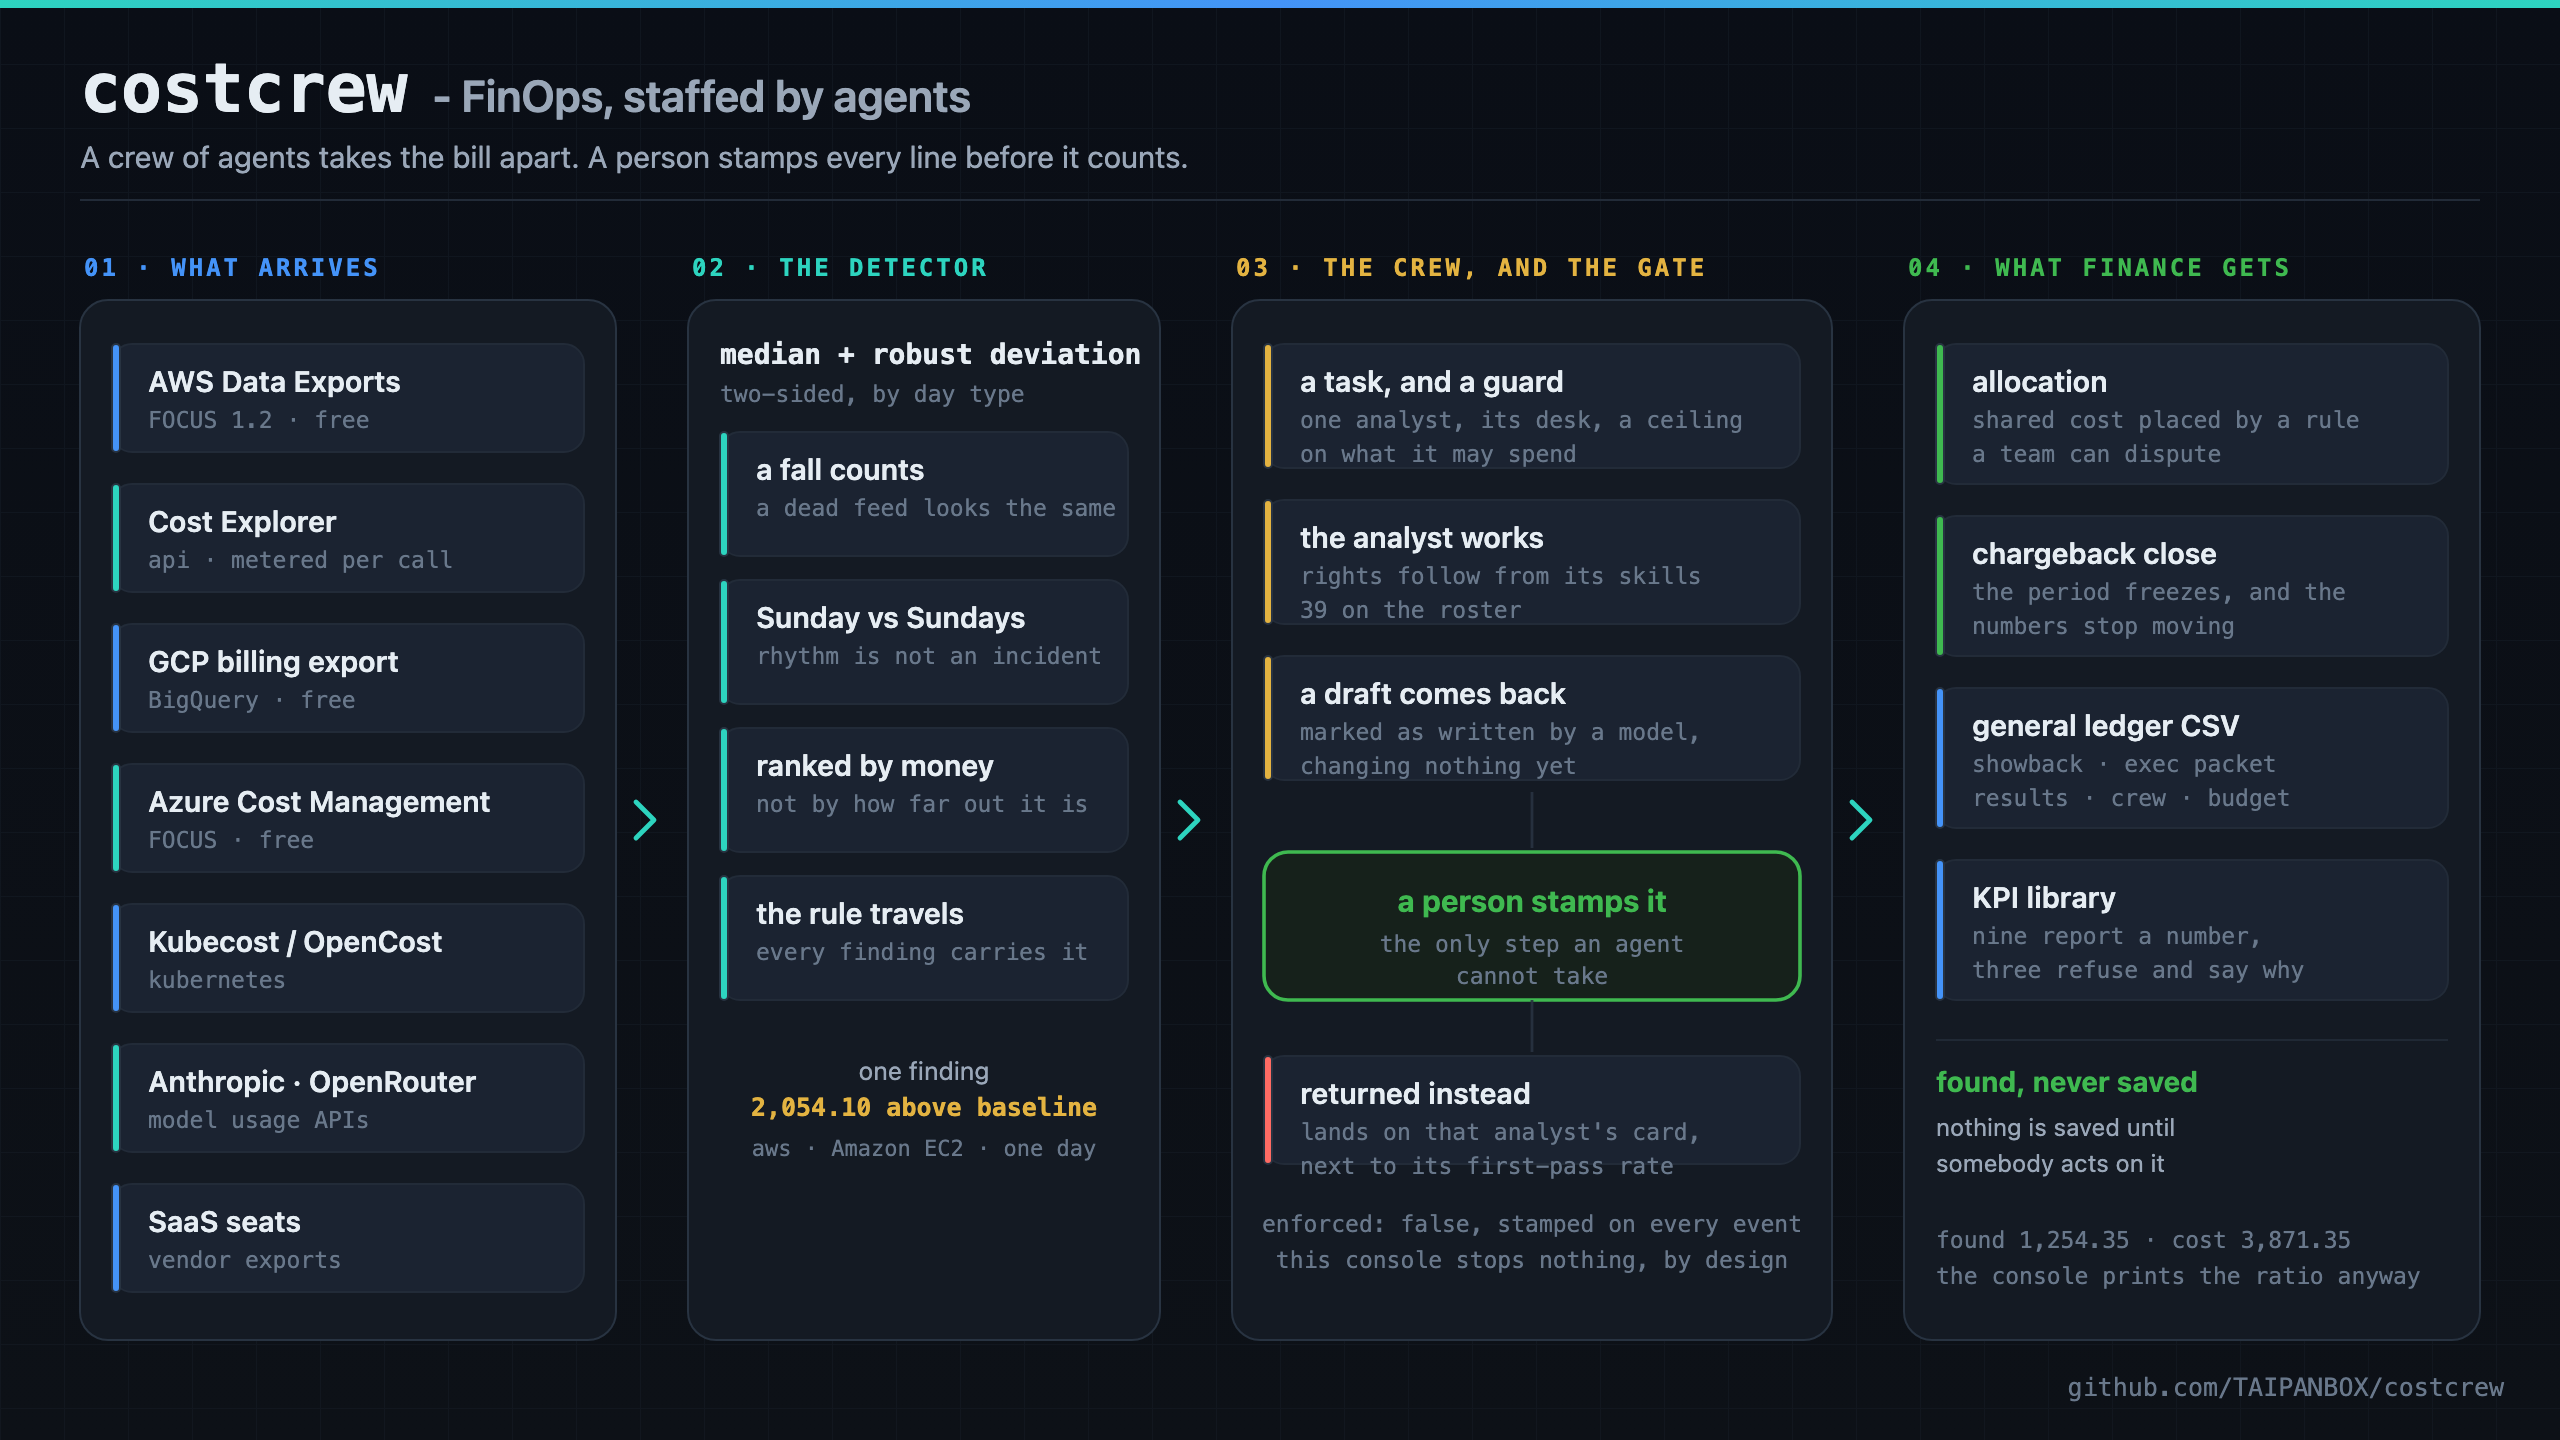
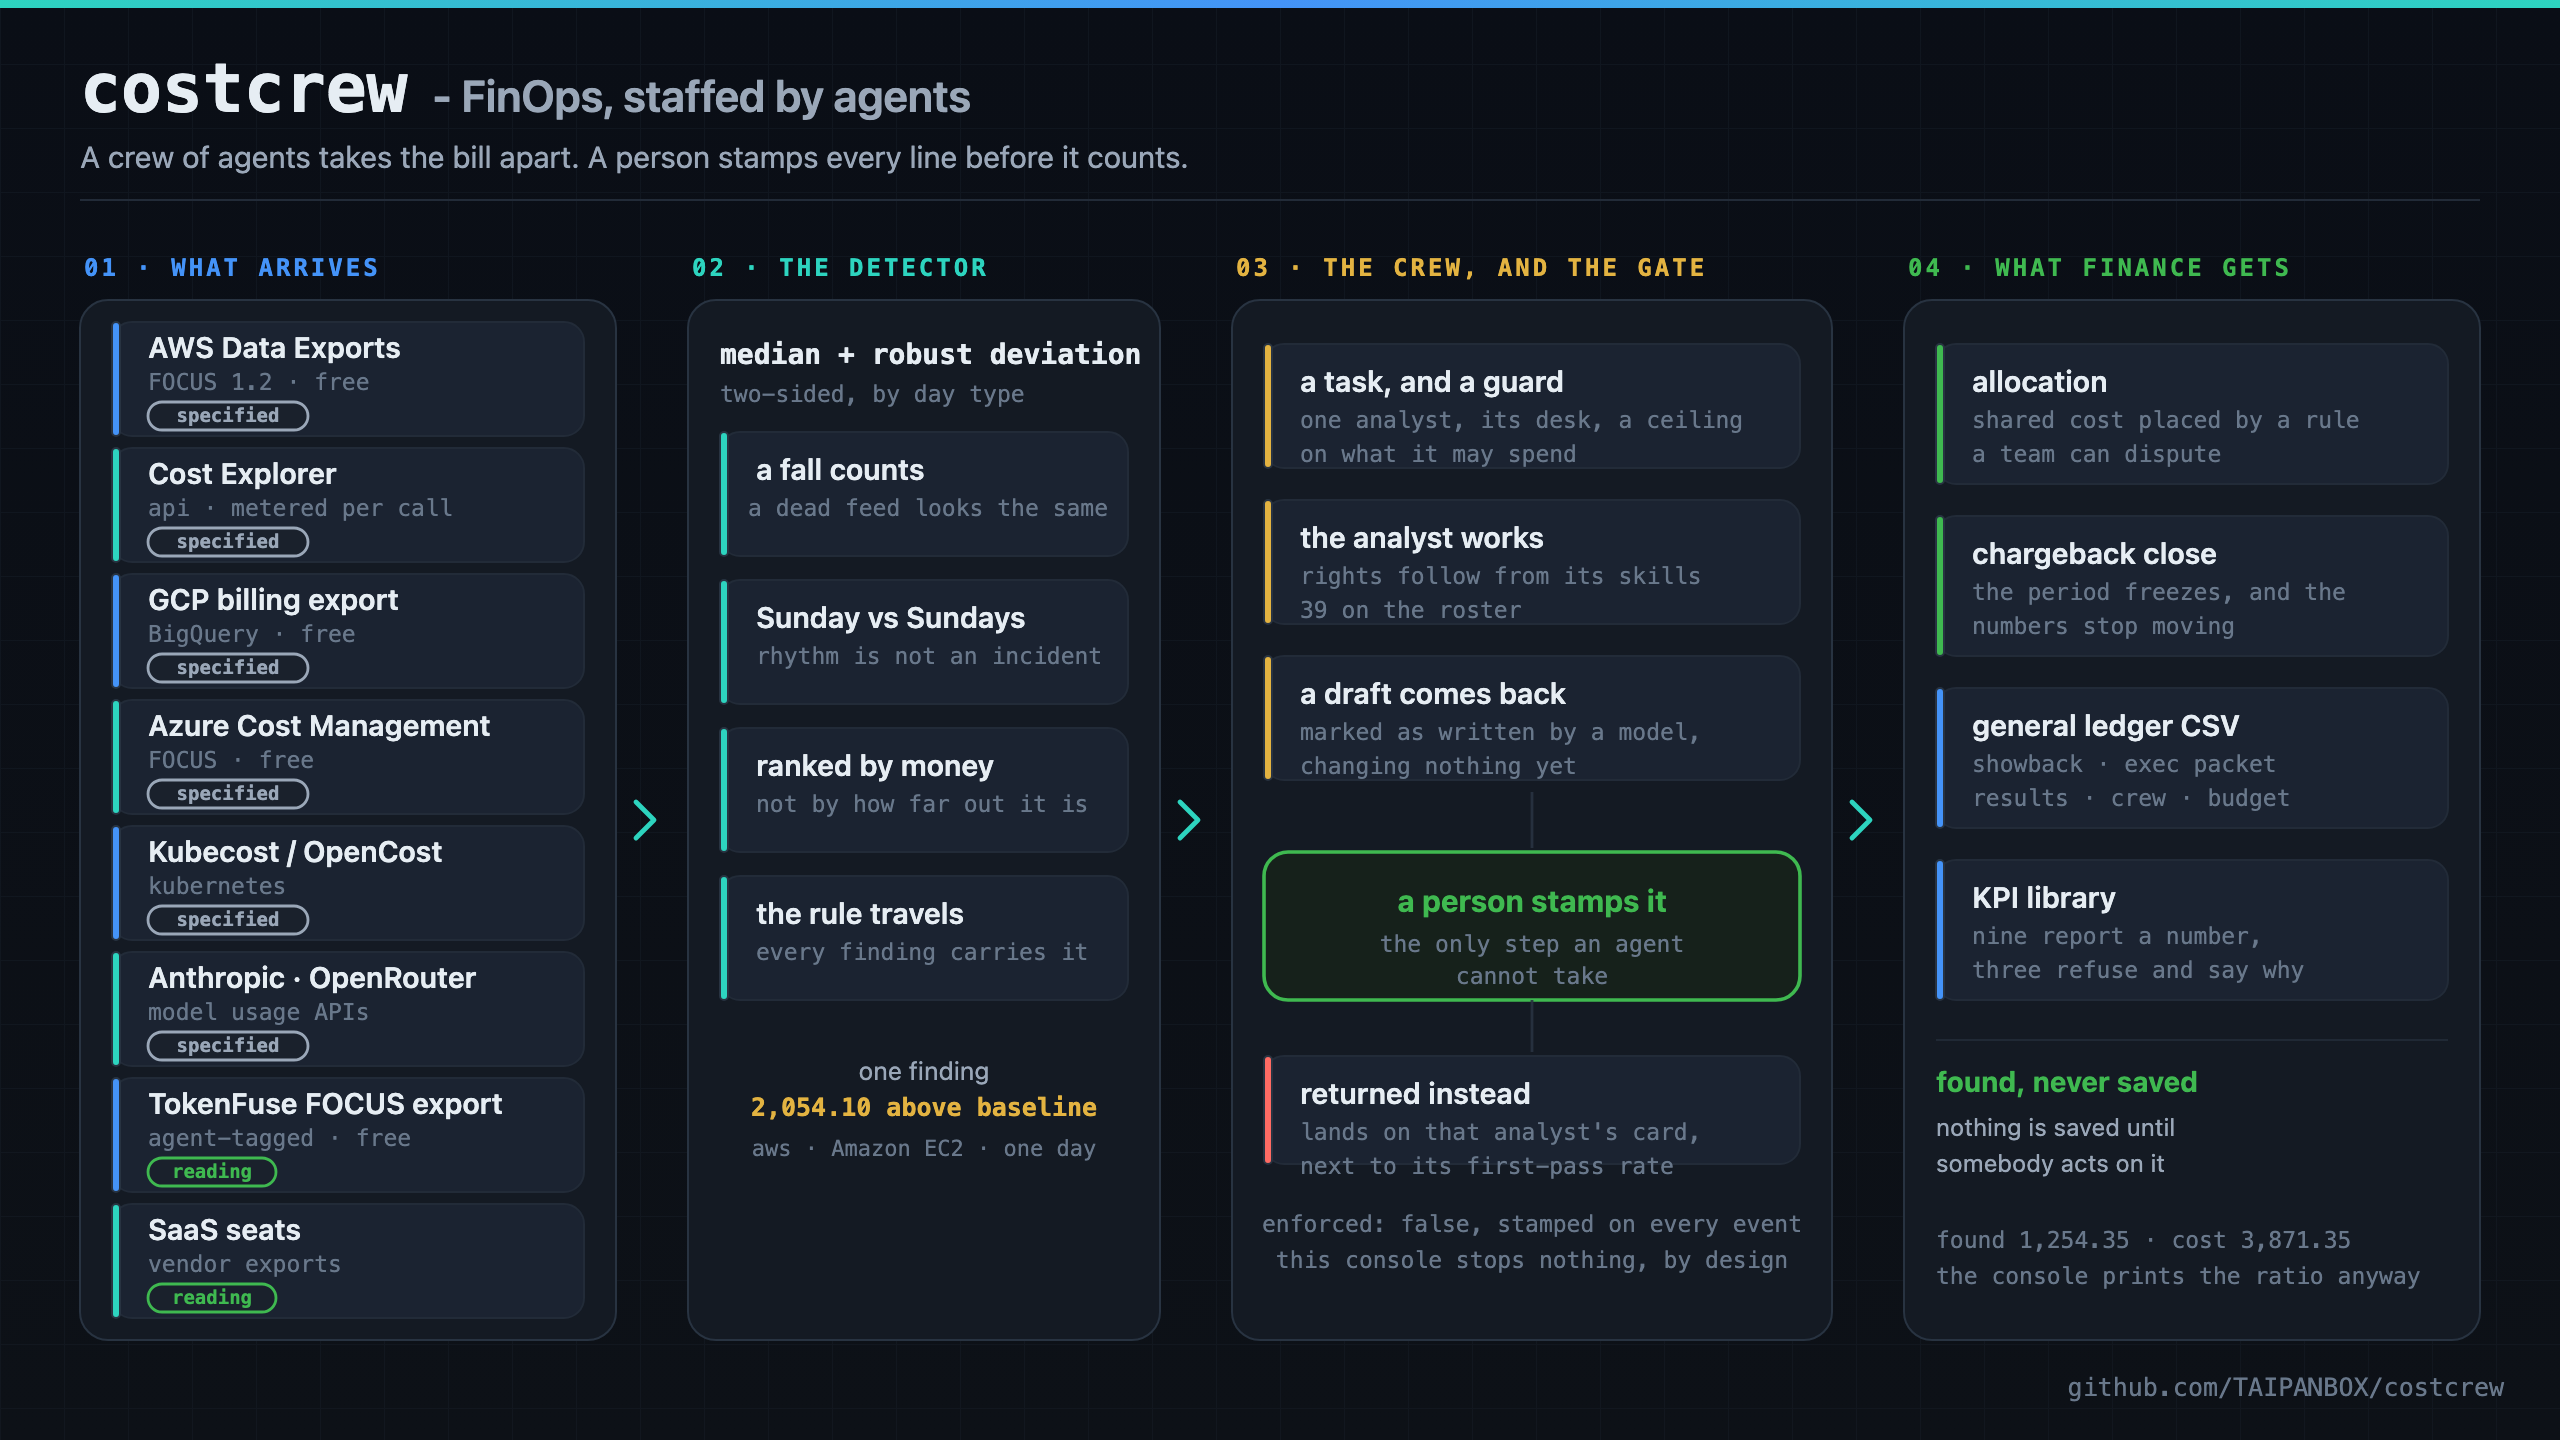
docs: the 2026-09-17 appliance run, and which connectors read today (#72)
* docs: record the 2026-09-17 appliance proving run, mark connectors reading vs specified

README gets a section on what the box-behind-a-home-router run measured for
this console: the crew's one real settled call, the two defects it found
(both fixed on main as #71 and #70), and what it did not prove.

The architecture diagram's WHAT ARRIVES column gets a status pill per card
(reading in green, specified in muted grey) derived from
internal/connectors.go's readers map, plus a TokenFuse FOCUS export card
since it is the one charges reader that is actually built; the PNG is
re-rendered at 2x to match. One pre-existing thin text in the DETECTOR
column (5.98px slack) is nudged 4px to clear svg-text-fit.py.

* docs: cite the estate-gates PROVEN record without tripping the document gate

TestEveryDocumentThisRepositoryNamesCanBeFound scans README.md and CLAUDE.md
for anything shaped like a *.md path and requires it either live in this
tree or match *-SPEC.md. Its regex is not actually URL-aware despite its own
comment, so a link ending in .../PROVEN.md tripped it. Point at the
estate-gates repository instead of the bare file path; the rows are still
named by date so a reader can find them.

* docs(diagram): the README schematic says which connectors read today, lifted from the site's redrawn room

---------

Changed region(s): [[0.0312, 0.2188, 0.1875, 0.9062], [0.3125, 0.3438, 0.4375, 0.375]]

diff --git a/README.md b/README.md
@@ -10,7 +10,7 @@
 ![License](https://img.shields.io/badge/license-Apache--2.0-blue.svg)
 ![Status](https://img.shields.io/badge/enforces-nothing%20by%20design-success.svg)
 
-<img src="docs/architecture.png" alt="costcrew architecture: cloud, SaaS and model bills arrive through connectors, a two-sided detector ranks findings by money, a named analyst works one under a spend guard, a person stamps the draft, and what is posted becomes allocation, a closed period and a general ledger export" width="960">
+<img src="docs/architecture.png" alt="costcrew architecture: cloud, SaaS and model bills arrive through connectors, marked reading or specified for which ones actually read data today, a two-sided detector ranks findings by money, a named analyst works one under a spend guard, a person stamps the draft, and what is posted becomes allocation, a closed period and a general ledger export" width="960">
 
 </div>
 
@@ -200,6 +200,52 @@ otherwise passes `costcrew-run`.
 
 Flipping stack-k8s's `suspend`, or adding a stack-single routine, is a
 platform act and a separate decision; neither is done in this repository.
+
+## Measured on a box behind a home router (2026-09-17)
+
+stack-single v1.1.3 ran `ghcr.io/taipanbox/costcrew:v0.2.0` on a Debian 13
+mini PC behind a home router, beside a gateway door of its own
+(`tokenfuse:v1.0.1`, unit `finops`, attributed by the
+`agent://customer.example/*` prefix), `-stack-host customer.example`,
+passports with an owner, the console on loopback. First start seeded the
+usual fixture estate (about 48,700 rows, 39 analysts).
+
+The crew called a real model through that door. `costcrew-run -live -only
+294` under a 0.10 USD cap made one real `claude-sonnet-5` call, settled by
+the gateway at 0.05811 USD; two tool calls were refused (`budgets-read` not
+granted); then the gateway's own monthly cap answered `402 unit 'finops'
+monthly budget exceeded`. Under a 0.004 USD cap, a second task was refused
+before any call went through. The gateway wrote `unit_cap_exceeded` (high)
+and `breaker_tripped` to its own events file; this console's own
+`tool_call` and practice events landed on `costcrew.ndjson`; the notifier
+mailed the crew's anomalies with the owner line read from the passport; the
+record plane sealed the crew's decisions beside the customer agents' own.
+
+Two defects turned up, both already fixed on `main` and neither in
+`v0.2.0`:
+
+- **The runner's own estimate was not the bill.** It printed `Spent 0.0116`
+  (its worst case) where the gateway had settled the same call at 0.05811,
+  about five times more, because the gateway's price book had no
+  `claude-sonnet-5` row and priced it at the fallback rate. Issue #67,
+  fixed by #71 (`a91edb8`): the charge recorded is now `x-fuse-cost-usd`,
+  the gateway's own settlement, never this repository's own estimate.
+- **A FOCUS import that should have replaced the generated estate refused
+  itself instead.** `generated_estate_replaced` was journaled with an
+  empty severity, outside the shared envelope's closed enum, so the whole
+  import rolled back, even though the FOCUS reader had already parsed the
+  box's own export cleanly (277 rows, 4 agents, 0.07 total billed cost).
+  Issue #66, fixed by #70 (`cb90412`, invariant 50).
+
+Still open: no AWS or GCP billing reader exists yet, so the board worked
+the generated estate and the box's AI spend alone (#68); `v0.2.0` predates
+the console's `-gateway` flag, dropped from the command for this run (#69).
+
+**Not proven by this run:** the crew at its ordinary cadence rather than by
+hand; a board carrying real cloud bills; the FOCUS import, severity fixed,
+run again against a live box. Full detail, rows dated 2026-09-17, in the
+estate-gates repository's own PROVEN record:
+[github.com/TAIPANBOX/estate-gates](https://github.com/TAIPANBOX/estate-gates).
 
 ## Gates
 
